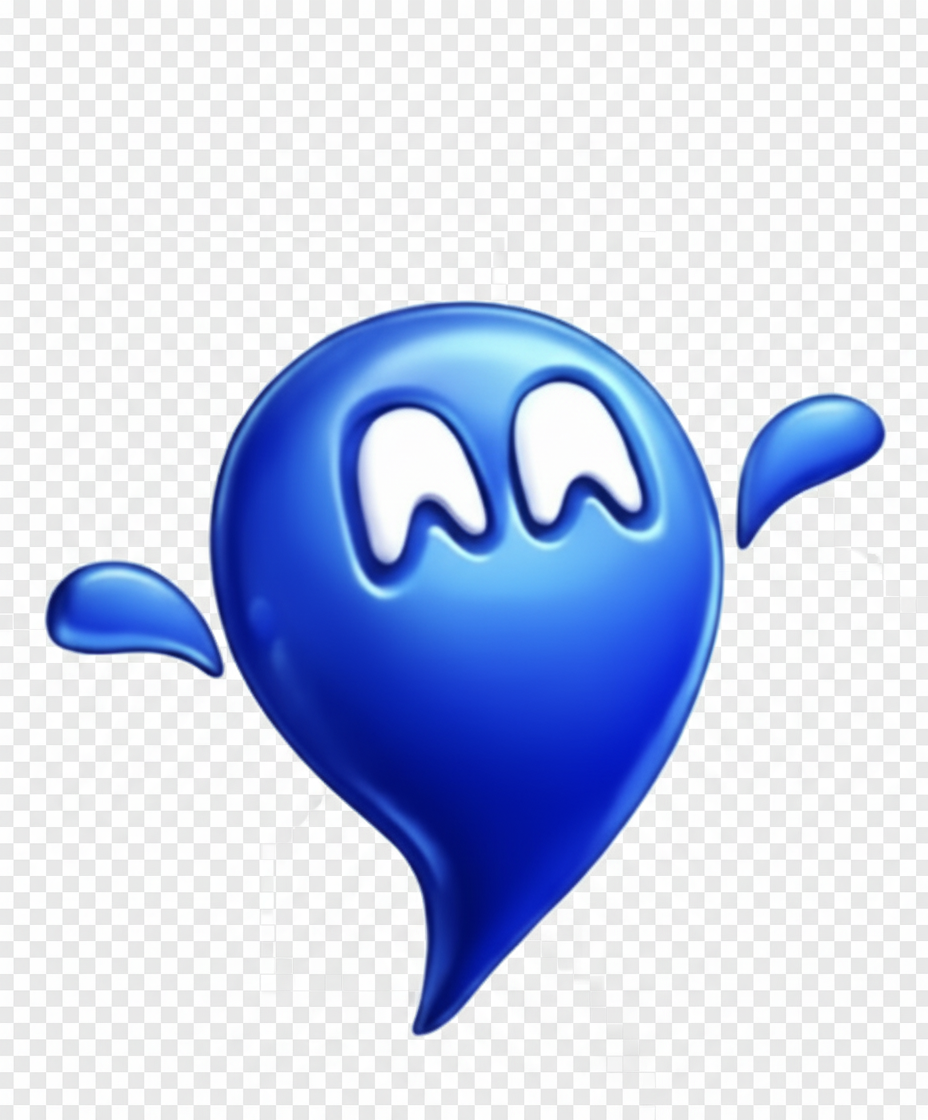
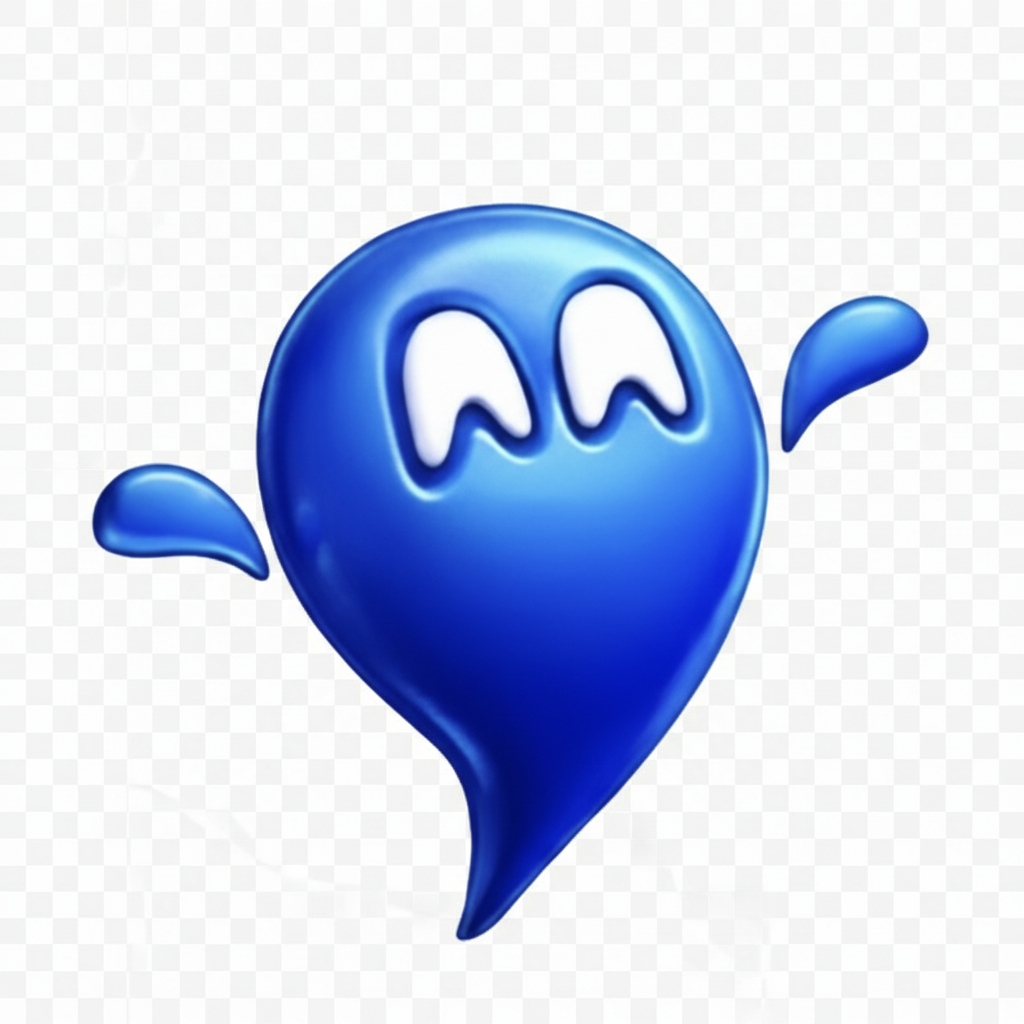
Changes

Changed region(s): [[0.0312, 0.1875, 0.9688, 0.9375]]

diff --git a/src/components/LuminaMascot.tsx b/src/components/LuminaMascot.tsx
@@ -1,3 +1,4 @@
+import { useEffect, useState } from 'react';
 import luminaMascot from '@/assets/lumina-mascot.png';
 
 interface LuminaMascotProps {
@@ -6,9 +7,48 @@ interface LuminaMascotProps {
 }
 
 export function LuminaMascot({ size = 48, className = '' }: LuminaMascotProps) {
+  const [processedSrc, setProcessedSrc] = useState<string>(luminaMascot);
+
+  useEffect(() => {
+    const img = new Image();
+    img.src = luminaMascot;
+
+    img.onload = () => {
+      const canvas = document.createElement('canvas');
+      canvas.width = img.width;
+      canvas.height = img.height;
+
+      const ctx = canvas.getContext('2d');
+      if (!ctx) return;
+
+      ctx.drawImage(img, 0, 0);
+      const imageData = ctx.getImageData(0, 0, canvas.width, canvas.height);
+      const data = imageData.data;
+
+      for (let i = 0; i < data.length; i += 4) {
+        const r = data[i];
+        const g = data[i + 1];
+        const b = data[i + 2];
+
+        const max = Math.max(r, g, b);
+        const min = Math.min(r, g, b);
+        const saturation = max === 0 ? 0 : (max - min) / max;
+        const brightness = (r + g + b) / 3;
+
+        const isBackgroundLike = brightness > 185 && saturation < 0.16;
+        if (isBackgroundLike) {
+          data[i + 3] = 0;
+        }
+      }
+
+      ctx.putImageData(imageData, 0, 0);
+      setProcessedSrc(canvas.toDataURL('image/png'));
+    };
+  }, []);
+
   return (
     <img
-      src={luminaMascot}
+      src={processedSrc}
       alt="Lumina"
       width={size}
       height={size}
